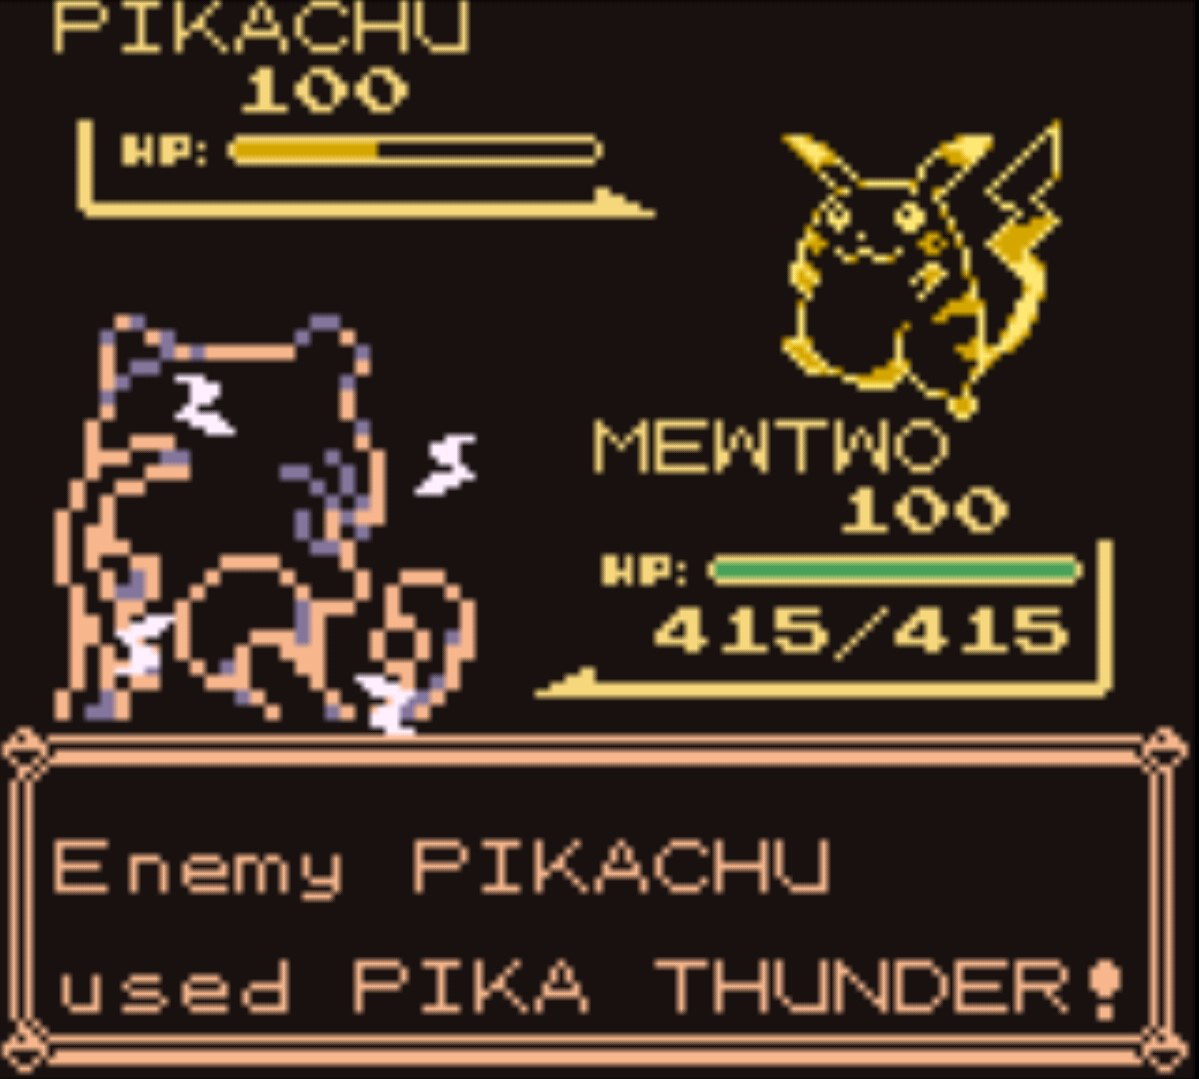
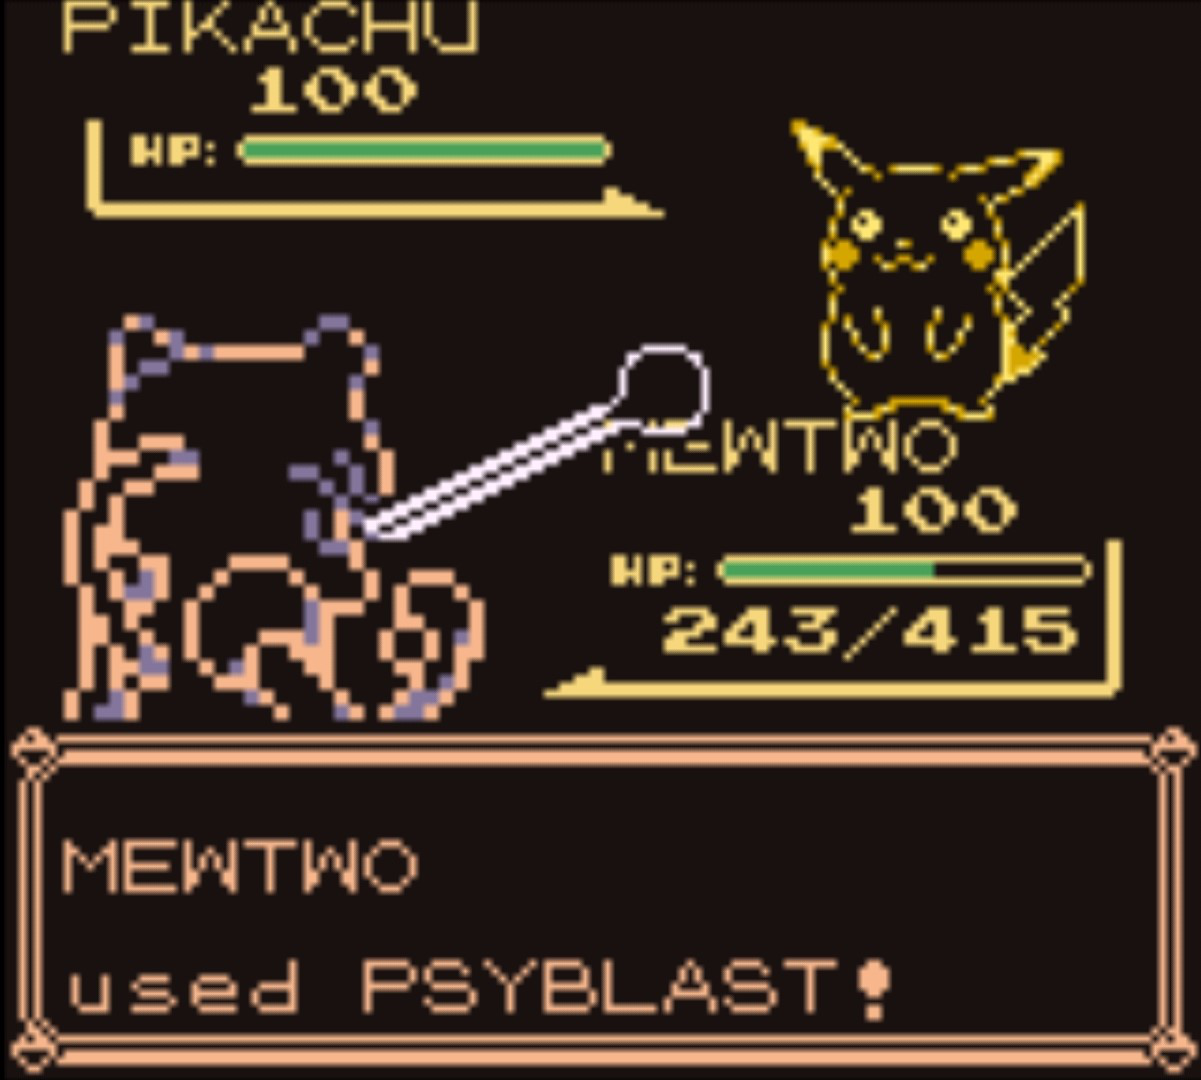
Update text and screenshots
Update text and screenshots

Changed region(s): [[0.0, 0.0, 1.0, 1.0], [0.0309, 0.0, 0.5555, 0.2141], [0.432, 0.6117, 0.5246, 0.6423]]

diff --git a/README.md b/README.md
@@ -13,6 +13,7 @@ Hack of Pokemon Red/Blue with a focus on fun, difficulty and post game content w
 - Pokemon sprites are a mixture of Blue, Green and Yellow version sprites, based on which I felt looked the best  
 - All in-game trades are different
 - Boss enemies have better trained Pokemon with higher stats (stat exp / EVs)
+- Unique, starter and legendary Pokemon always have good DVs at minimum  
 - Items can not be used in boss battles, by a player or opponent
 - Updated level-up moveset for all fully evolved Pokemon, they now learn good moves by level up
 - numerous bug fixes including removal of badge boost, removal of 1 in 256 glitch and critical hit rates halved
@@ -26,7 +27,7 @@ Hack of Pokemon Red/Blue with a focus on fun, difficulty and post game content w
 - Cerulean Cave Mewtwo has dialog on encounter, also when using master ball and trying to run. Also has AI and different battle music
 
 # Download and Play
-The current version of the game can be downloaded from [here](https://drive.google.com/file/d/1J1UDwhy5Zwkm7YOLUoclCFR_Wy1pwbup/view?usp=sharing).
+The current version of the game can be downloaded from [here](https://drive.google.com/file/d/1CDOCC2d7Zvj8ji8IOPXKd_y_y7oxRjSB/view?usp=sharing).
 
 This is compatible with any existing gen 1 saves you have. You need to
 - Manually save your current game in an outdoor map such as Pallet Town
@@ -51,7 +52,7 @@ Optional Bosses
 New Enemy Encounters 
 ![New encounters](/screenshots/weevil.png?raw=true)
 
-Signature Moves
+Signature Moves and Mixed Sprites
 ![New Moves](/screenshots/pikaThunder.png?raw=true)
 ![New Moves](/screenshots/psyblast.png?raw=true)
 ![New Moves](/screenshots/stone.png?raw=true)
@@ -229,6 +230,9 @@ Signature Moves
 - Cerulean Cave B1F has Chansey, Snorlax, Gyarados, Alakazam, Starmie, Charizard, Venusaur, Blastoise, Dragonite
 
 # Pokemon Changes
+- Pokemon given to the player, such as starter and trades have at least 8 DVs in every stat
+- Snorlax and Legendary birds all have at least 10 DVs in every stat
+- All Pokemon obtained have max DVs after the Elite Four have been defeated  
 - Pokemon types and base stats have not been changed with a few exceptions
   - Onix and Rhyhorn are now pure rock types, this make Brock less trivial for Squirtle or Bulbasaur starters
   - Dragonite is pure dragon type, this makes Lance harder
